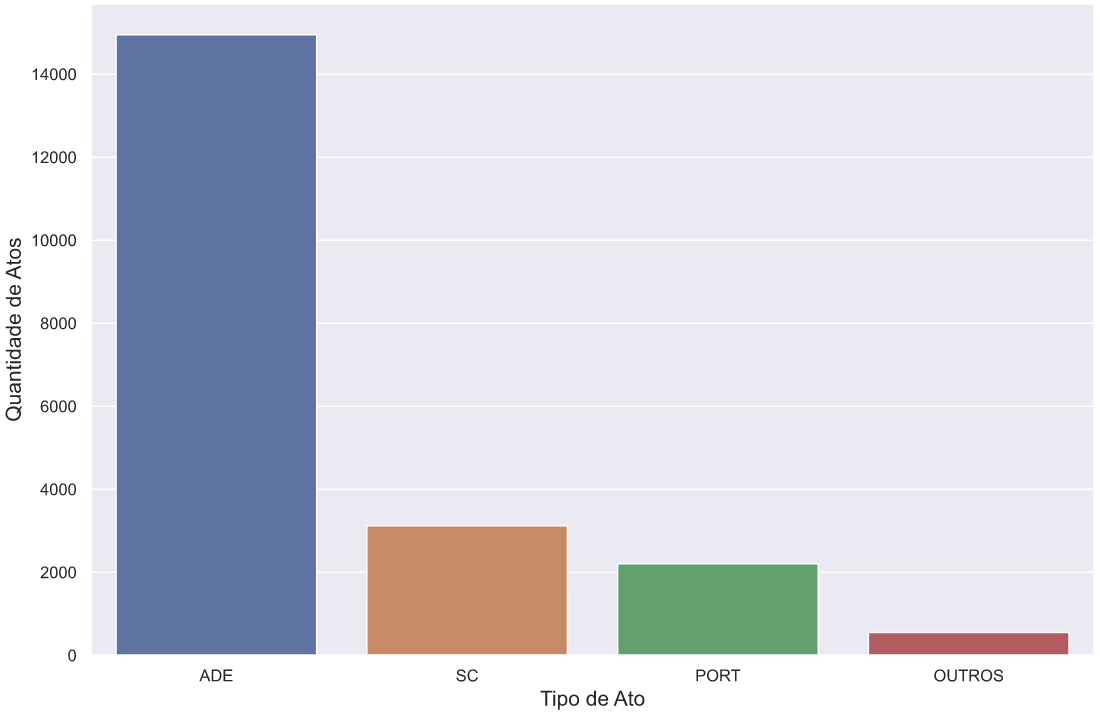
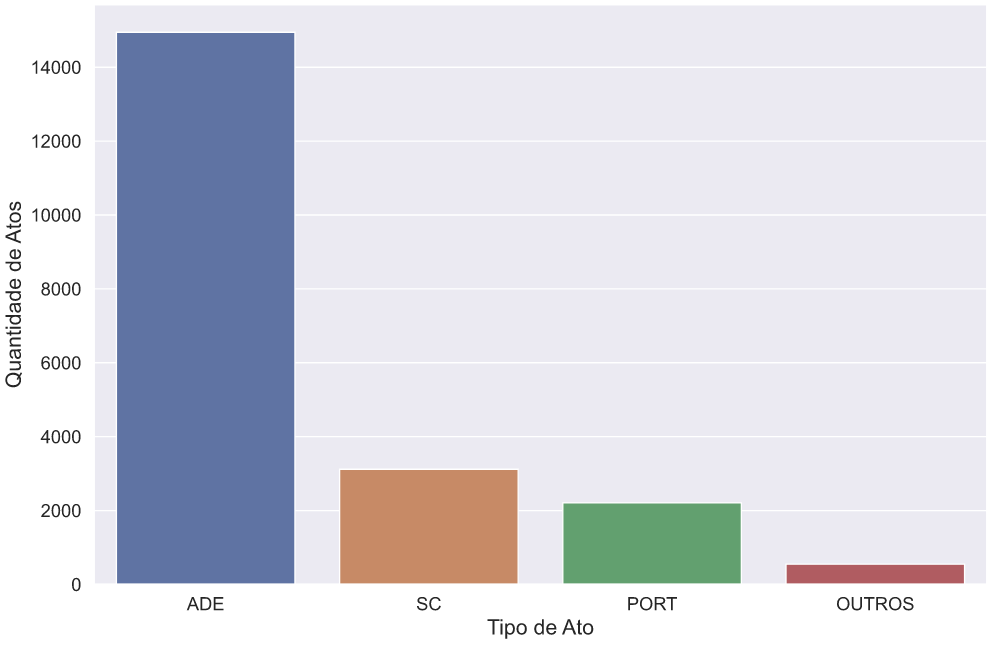
Analise exploratoria de dados

diff --git a/exploratoria/exploratoria.tex b/exploratoria/exploratoria.tex
@@ -30,23 +30,47 @@ Os segmentos do tipo Anexo representam 93,57\% dos segmentos com valores ausente
 
 \subsection{Distribuições de Atos e Segmentos}
 
-Um aspecto que chamou a atenção na exploração dos dados foi a predominância de Atos Declaratórios Executivos (ADE), representando 71,79\% (14.948 dos 20.821 atos analisados), seguido pelas Soluções de Consulta (SC) com 14,98\% e Portarias (Port.) com 10,60\%. Os demais tipos de ato representam juntos 2.63\% do total. A figura \ref{fig:atos-por-tipo-ato} evidencia essa distribuição.
+Um aspecto que chamou a atenção na exploração dos dados foi a predominância de Atos Declaratórios Executivos (ADE), representando 71,79\% (14.948 dos 20.821 atos analisados), seguido pelas Soluções de Consulta (SC) com 14,98\% e Portarias (PORT) com 10,60\%. Os demais tipos de ato representam juntos 2.63\% do total. A figura \ref{fig:atos-por-tipo-ato} evidencia essa distribuição.
 
-\begin{figure}[h]
+\begin{figure}[h!]
 	\caption{Quantidade de atos por tipo de ato}
 	\center
 	\label{fig:atos-por-tipo-ato}
-	\includegraphics[scale=1.7]{exploratoria/atos-por-tipo-ato.png}
+	\includegraphics[scale=1.9]{exploratoria/atos-por-tipo-ato.png}
 	\fdp
 \end{figure}
 
-Outro aspecto importante analisado durante a exploração de dados foi distribuição dos segmentos por tipo de ato.
+Outro aspecto importante analisado durante a exploração de dados foi distribuição dos segmentos por tipo de ato. Na tabela \ref{tab:segmentos-por-tipo-ato} é possível perceber que dos 17 tipos possíveis de segmento, somente 13 estão presentes em atos dos tipos ADE, SC e PORT. Além disso, nem todos os 13 tipos de segmento estão presentes nos 3 tipos de ato e alguns tipos de segmento são pouco frequentes.
 
- \begin{figure}[h]
-	\caption{Distribuição dos segmentos por tipo de ato}
-	\center
-	\label{fig:segmentos-por-tipo-ato}
-	\includegraphics[scale=1.7]{exploratoria/segmentos-por-tipo-ato.png}
+\begin{table}[h!] 
+\caption{Valores ausentes por tipo de segmento}
+\label{tab:valores-ausentes}
+	\begin{center} 
+
+		\begin{tabular}{rrrr}
+		\toprule
+		TIPO DE ATO &      ADE    &   PORT &      SC \\
+		TIPO DE SEGMENTO          &        &         \\
+		\midrule
+		Alínea           &    780 &  2.265 &      87 \\
+		Artigo           & 37.921 & 11.578 &       3 \\
+		Autor            &      3 &      4 &       0 \\
+		Capítulo         &      5 &    381 &       0 \\
+		Ementa           & 14.948 &  2.207 &   3.119 \\
+		Fecho            & 14.853 &  2.289 &     919 \\
+		Inciso           &  4.134 & 17.399 &       0 \\
+		Item             &    398 &    388 &      10 \\
+		Não Identificado & 36.288 & 11.726 &   6.609 \\
+		Parágrafo        &    861 &  5.894 &       0 \\
+		Seção            &      3 &    219 &       0 \\
+		SubSeção         &      0 &     18 &       0 \\
+		Título           &    545 &    540 &       0 \\
+		\bottomrule
+	\end{tabular}
+	\end{center}
 	\fdp
-\end{figure}
+\end{table} 
 
+Os segmentos do tipo ``Não Identificado'' representam um ponto de atenção para a classificação dos segmentos. Por ser o tipo padrão de segmento do sistema Normas, sempre que ocorre falha humana por omissão na classificação manual, o segmento fica classificado como ``Não Identificado''. Apesar disso, essa é uma classe válida de segmento amplamente utilizada para representar trechos do ato que não precisam de formatação específica. Por estar entre os tipos mais frequentes de segmento e ser um tipo válido, os segmentos desse tipo não podem ser removidos do escopo da classificação, mas a presença de segmentos com classificação omissa pode prejudicar os resultados dos modelos.
+
+   
